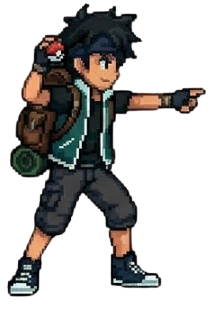
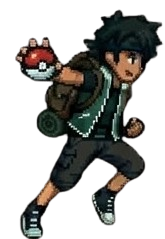
iniciando animacao player

diff --git a/index.js b/index.js
@@ -1,7 +1,7 @@
 let des = document.getElementById('des').getContext('2d')
 
 // Jogador
-let player = new Player(100, 300, 110, 110, './img/player.png')
+let player = new Player(100, 300, 120, 120, './img/player.png')
 
 // Inimigos (pedras)
 let inimigo1 = new Inimigo(1300, 100, 90, 90, './img/pedra1.png')
@@ -142,7 +142,7 @@ function ver_fase() {
         // Evolução: Pikachu, Frogadier, Charmeleon
         item1.a = './img/pikachu.png'
         item2.a = './img/frogadier.png'
-        item3.a = './img/chameleon.png'
+        item3.a = './img/charmeleon.png'
         ;[inimigo1, inimigo2, inimigo3, inimigo4, inimigo5].forEach(i => i.vel = 6)
     } else if (player.pontos > 600 && fase === 2) {
         fase = 3
@@ -206,6 +206,7 @@ function atualiza() {
     telas.atualiza()
     if (tela === 'jogando') {
         player.mov_player()
+        player.anim('player')
         inimigo1.mov_inimigo()
         inimigo2.mov_inimigo()
         inimigo3.mov_inimigo()

diff --git a/models/Telas.js b/models/Telas.js
@@ -180,7 +180,7 @@ class Telas {
             { texto: 'Pedra que passa = +5 pts', cor: 'white', tamanho: '11px' },
             { texto: '', cor: 'white', tamanho: '11px' },
             { texto: '🗺 FASES', cor: '#4fc3f7', tamanho: '14px' },
-            { texto: 'Fase 1: 0pts  Fase 2: 300pts  Fase 3: 600pts, o jogo acaba quando o usuário chegar a 1000 pontos', cor: 'white', tamanho: '10px' },
+            { texto: 'Fase 1: 0pts  Fase 2: 300pts  Fase 3: 600pts. O jogo acaba quando o usuário chegar a 1000 pontos 👑', cor: 'white', tamanho: '10px' },
         ]
 
         linhas.forEach((linha, i) => {

diff --git a/index.html b/index.html
@@ -9,7 +9,7 @@
     <script src="./models/Player.js" defer></script>
     <script src="./models/Telas.js" defer></script>
     <script src="./index.js" defer></script>
-    <title>PokéRush Run</title>
+    <title>PokeRush Run</title>
 </head>
 <body>
     <canvas id="des" width="1200" height="700">
